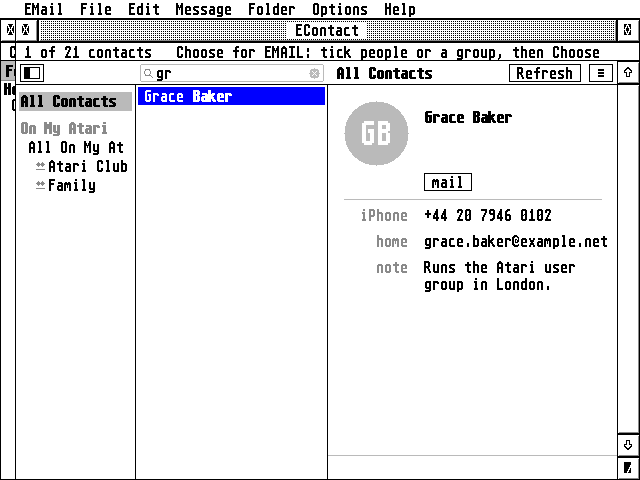
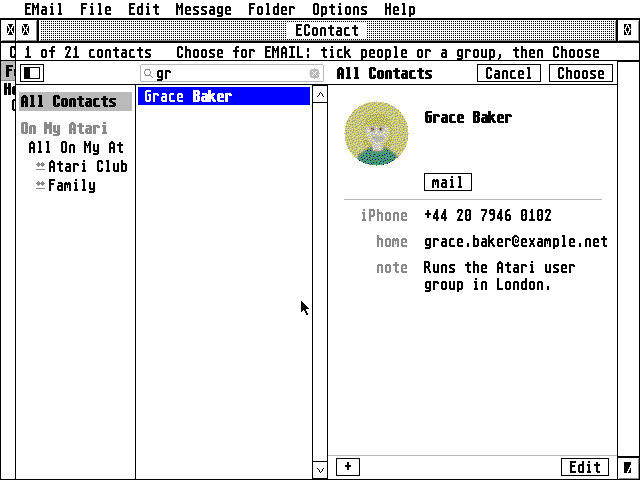
Docs true to 1.60 and main: the Pi's short way, sizes, pictures
The family's docs review (the hub, 22 Oct):
- README and guide: the Pi's short way (AERA-Gateway 1.8: update-pi.sh
  --allow, every gateway in one line) and `sudo aera-gateway status`;
  ECONTST.ACC 125 KB smaller than ECONTACT.ACC (was 105), and about
  490 KB alone (277 program, 166 buffers, 48 stack); the quiet start's
  longest step 100 ms on the ST, as measured now; drawing off the
  screen, the held scroll bar, long text fields and the crash catcher in
  "What it does"; the guide: the track held, a text field's keys
  (Shift+Left/Right), the INF's empty line after each setting.
- Pictures retaken in Hatari (docs_shots.py): email-complete and
  ecal-invitees (EMail 1.51, ECal 2.21; the list's own scroll bar, the
  toolbar's Cancel and Choose), memory-full (ST-1, 1,000 contacts:
  --memory, new). desk-menu.png and ecal-invite.png, shown nowhere and
  of the old window, go; ECal 2.21 takes the one found at once, so its
  shot is the event with Maya Carter in People. The other shots differ
  from new ones only in the info line's time: kept, and WINDOW.IMG
  with them.
- docs_shots.py imports ECal's ui_tour with ECal's own rig.py.

Claude-Session: https://claude.ai/code/session_01JWXrCb5ck666x9DhJcKbCz

diff --git a/tests/hatari/docs_shots.py b/tests/hatari/docs_shots.py
@@ -11,6 +11,9 @@ On the family's machines (common/tools/machines.py): the Falcon at 640x480
 in 16 colours (--falcon names another, Falcon:256 say) and the ST in mono
 (--st).
 
+--memory takes memory-full: ECONTST.ACC on a 1 MB ST (ST-1 in mono)
+with 1,000 contacts, more than fit, and the alert that says so.
+
 --email and --ecal take the shots of EContact working with EMail (1.35 or
 later: it asks with PEOPLE) and ECal (2.5 or later): their latest
 releases, what Erez runs (the guidelines, 1.2), or the one named, fetched
@@ -79,6 +82,48 @@ def program(work, machine, shots):
     return os.path.join(work, "shots")
 
 
+def memory_full(work, machine):
+    """the accessory on a 1 MB ST with more contacts than fit"""
+    hd = os.path.join(work, "hd")
+    shutil.rmtree(work, ignore_errors=True)
+    folder = os.path.join(hd, "ECONTACT")
+    os.makedirs(folder)
+    first = "Anna Ben Clara David Emma Frank Grace Henry Iris Jack Kate Liam Mia Noah Olivia Paul".split()
+    last = "Anderson Baker Carter Davis Evans Foster Green Hughes Irwin Jones Klein Lewis Moore".split()
+    vcf = os.path.join(work, "many.vcf")
+    with open(vcf, "w", newline="") as f:
+        for i in range(1000):
+            g, fam = first[i % len(first)], last[(i // len(first)) % len(last)]
+            f.write("BEGIN:VCARD\r\nVERSION:3.0\r\nN:%s;%s;;;\r\nFN:%s %s\r\nORG:Globex;\r\n"
+                    "EMAIL;type=INTERNET;type=HOME:%s.%s%d@example.com\r\n"
+                    "TEL;type=CELL:+1 555 01%02d\r\nUID:DOCS-%04d\r\nEND:VCARD\r\n"
+                    % (fam, g, g, fam, g.lower(), fam.lower(), i, i % 100, i))
+    subprocess.run([CLI, folder, "local", "Contacts"], check=True, stdout=subprocess.DEVNULL)
+    subprocess.run([CLI, folder, "import", "Contacts", vcf], check=True, stdout=subprocess.DEVNULL)
+    with open(os.path.join(folder, "ECONTACT.INF"), newline="") as f:
+        t = f.read()
+    os.remove(os.path.join(folder, "ECONTACT.INF"))
+    lines = [("FOLDER=C:\\ECONTACT" if ln.startswith("FOLDER=") else "START=5" if ln.startswith("START=")
+              else ln) for ln in t.split("\r\n")]
+    with open(os.path.join(hd, "ECONTACT.INF"), "w", newline="") as f:
+        f.write("\r\n".join(lines))
+    shutil.copy(os.path.join(BIN, "ECONTST.ACC"), os.path.join(hd, "ECONTACT.ACC"))
+    r = Rig(work, machine, auto="")
+    try:
+        time.sleep(120)                 # read in the background, as far as memory goes
+        r.click(30, 8)                  # Desk
+        time.sleep(1.5)
+        r.click(60, 59)                 # EContact: the window, and the alert
+        time.sleep(12)
+        r.move(600, 30)                 # the pointer off the alert
+        time.sleep(1)
+        r.shot("memory-full")
+        r.key(K["RETURN"])
+    finally:
+        r.stop()
+    return os.path.join(work, "shots")
+
+
 def falcon_shots(r):
     time.sleep(4)                        # the first card's photo
     r.click(200, 204)                    # Maya Carter
@@ -137,10 +182,6 @@ def with_email(work, machine, spec):
     r = Rig(work, machine, auto="C:\\EMAIL.PRG")
     try:
         time.sleep(18)
-        r.click(30, 8)
-        time.sleep(1)
-        r.shot("desk-menu")
-        r.key(K["ESC"])
         r.click(300, 300)
         time.sleep(0.5)
         r.ctrl("n")
@@ -163,8 +204,15 @@ def with_ecal(work, machine, spec, ecal_src):
     as_accessory(hd)
     getrelease.fetch(spec, os.path.join(work, "shots"), ["ECAL.PRG"])
     shutil.move(os.path.join(work, "shots", "ECAL.PRG"), os.path.join(hd, "ECAL.PRG"))
+    # ECal's ui_tour: its seed() writes an On My Atari calendar. It takes
+    # ECal's own rig.py, not this one
+    ours = sys.modules.pop("rig")
     sys.path.insert(0, os.path.join(ecal_src, "tests", "hatari"))
-    import ui_tour  # ECal's: its seed() writes an On My Atari calendar
+    try:
+        import ui_tour
+    finally:
+        sys.path.pop(0)
+        sys.modules["rig"] = ours
     ui_tour.seed(hd, english=True)
     r = Rig(work, machine, auto="C:\\ECAL.PRG")
     try:
@@ -175,11 +223,8 @@ def with_ecal(work, machine, spec, ecal_src):
         r.click(505, 125)               # People: Add...
         time.sleep(2)
         r.type("ma", pace=0.1)          # Name or address
-        r.key(K["RETURN"])              # OK: ECal asks EContact (PEOPLE pick:)
-        time.sleep(8)                   # EContact's window, choosing, and its photo
-        r.shot("ecal-invite")
-        r.key(K["RETURN"])              # Choose: the one chosen
-        time.sleep(4)
+        r.key(K["RETURN"])              # OK: ECal asks EContact (PEOPLE pick:),
+        time.sleep(8)                   # and Maya Carter is in People (ECal 2.21)
         r.shot("ecal-invitees")
         r.key(K["ESC"])
     finally:
@@ -192,6 +237,7 @@ def main():
     ap.add_argument("work")
     ap.add_argument("--falcon", default="Falcon:16")
     ap.add_argument("--st", default="ST:mono")
+    ap.add_argument("--memory", action="store_true", help="memory-full, on ST-1")
     ap.add_argument("--email", nargs="?", const="EMail")
     ap.add_argument("--ecal", nargs="?", const="ECal")
     ap.add_argument("--ecal-src", default=os.path.join(ROOT, "..", "ecal"))
@@ -199,6 +245,8 @@ def main():
     a = ap.parse_args()
     dirs = [program(os.path.join(a.work, "falcon"), a.falcon, falcon_shots),
             program(os.path.join(a.work, "st"), a.st, st_shots)]
+    if a.memory:
+        dirs.append(memory_full(os.path.join(a.work, "memory"), "ST-1:mono"))
     if a.email:
         dirs.append(with_email(os.path.join(a.work, "email"), a.falcon, a.email))
     if a.ecal:

diff --git a/README.md b/README.md
@@ -35,7 +35,7 @@ and all of them together in `ECONTACT-x.y.zip`.
 | File | What it is |
 |---|---|
 | `ECONTACT.ACC` | Falcon and TT: the accessory with Falcon mode (TLS, DSP); also works through the Pi |
-| `ECONTST.ACC` | ST and STE: the same accessory without TLS (about 105 KB smaller), through the Pi |
+| `ECONTST.ACC` | ST and STE: the same accessory without TLS (about 125 KB smaller), through the Pi |
 | `ECONTACT.PRG` | the same as `ECONTACT.ACC`, to start from the desktop, with a menu bar |
 | `CACERT.PEM`, `ROOTS.DAT` | the root certificates for Falcon mode |
 | `ECONTACT.HYP` | the user guide for ST-Guide or EHypView: in EContact's folder, the Help key opens it |
@@ -70,11 +70,19 @@ file with EContact's added (it says which number), for the root of the boot driv
    sudo gateway/aera-gateway install dav --allow ATARI_IP
    ```
 
+   Or the short way (AERA-Gateway 1.8 or later), every gateway in one line (EMail's too with
+   `--mail IMAP SMTP`):
+
+   ```
+   sudo apt install -y git && git clone https://github.com/whomper/AERA-Gateway ~/AERA-Gateway &&
+     ~/AERA-Gateway/update-pi.sh --allow ATARI_IP
+   ```
+
    `ATARI_IP` is your Atari's address (`192.168.1.x`): the gateway answers it alone. ECal uses the
    same gateway: if it already works through your Pi, there is nothing to do.
 
    - To update: `cd ~/AERA-Gateway && ./update-pi.sh` (its settings are kept).
-   - To check: `gateway/aera-gateway status`.
+   - To check: `sudo aera-gateway status` (`gateway/aera-gateway status` in the folder).
    - In EContact: **Settings > Connection**, **Pi gateway:** the Pi's address (`PI_IP`),
      **Port:** 8180.
 4. Reboot, choose **EContact** in the Desk menu, and add your iCloud account with an
@@ -159,6 +167,11 @@ under a search field, the chosen person's card on the right.
 - **My Card**, as on the Mac; the window opens on it.
 - **Fonts** (the system font or any fixed-width GDOS font, in the family's Font dialog), the window and everything else are
   remembered in `ECONTACT.INF`, which explains itself.
+- **Smooth on an ST**: the window is drawn off the screen and shown at once; the list scrolls by
+  moving what is shown, and the scroll bar's arrows and track go on while held. Text fields hold
+  more than they show (a long server address, a name) and scroll with the cursor.
+- **A crash** in the program is caught: it says so, writes `CRASH.LOG` and quits, leaving the
+  Atari running (the guide, When something goes wrong).
 
 ![Editing Maya Carter's card: the Edit Contact dialog with its Name, Phone, Email, Address and More sections](docs/edit.png) ![EContact on an ST in high resolution: the same window in black and white, Johnny Appleseed's photo dithered](docs/st-mono.png)
 
@@ -270,8 +283,8 @@ name, a company, one or two emails, two phones, some with an address, birthday o
   at most 50 ms on a Falcon and 100 ms on an ST between the other programs' turns, so the first
   opening is at once. Measured in Hatari with 600 contacts and an AES_PROFILE build
   (`tests/hatari/quiet_start.py`): the whole read takes 4.4 s of an 8 MHz ST's time (1.1 s on a
-  16 MHz Falcon), spread over 8 s; the longest stretch between event calls is 95 ms on the ST and
-  under 50 ms on the Falcon. When the copy on disk is the one the index was made from, nothing is
+  16 MHz Falcon), spread over 8 s; the longest stretch between event calls is 100 ms on the ST
+  and under 50 ms on the Falcon. When the copy on disk is the one the index was made from, nothing is
   hashed (the cards are found by where they are).
 - **Start-up reads parsed contacts** from `CACHE\BOOKnnnn.IDX`: a card is parsed (about 85 ms on an
   8 MHz ST) only the first time, and after it changes; the rest take about 18 ms each. A new version
@@ -281,7 +294,7 @@ name, a company, one or two emails, two phones, some with an address, birthday o
 - **Syncing a big address book** reads the server's list of cards as it arrives when memory is small,
   keeping only what needs fetching.
 - STinG takes 100 KB or more of its own: with it, a 1 MB ST holds about 400 contacts. A 512 KB ST
-  can't run EContact (`ECONTST.ACC` alone is about 480 KB: 265 KB of program, 180 KB of buffers and
+  can't run EContact (`ECONTST.ACC` alone is about 490 KB: 277 KB of program, 166 KB of buffers and
   its 48 KB stack).
 - **With EMail on a 1 MB ST, use `ECONTACT.PRG`, not the accessory.** The accessory and its memory
   take about 650 KB of the 1 MB for as long as the Atari runs, which leaves too little for EMail to

diff --git a/docs/GUIDE.md b/docs/GUIDE.md
@@ -162,13 +162,22 @@ cd AERA-Gateway
 sudo gateway/aera-gateway install dav --allow ATARI_IP
 ```
 
+Or the short way (AERA-Gateway 1.8 or later), every gateway in one
+line (EMail's too with `--mail IMAP SMTP`):
+
+```
+sudo apt install -y git && git clone https://github.com/whomper/AERA-Gateway ~/AERA-Gateway &&
+  ~/AERA-Gateway/update-pi.sh --allow ATARI_IP
+```
+
 ATARI_IP is your Atari's address (192.168.1.x): the gateway answers it
 alone. One Pi serves ECal and EContact alike: if ECal already works
 through it, there is nothing to do on the Pi.
 
 - To update: `cd ~/AERA-Gateway && ./update-pi.sh` (its settings are
   kept).
-- To check: `gateway/aera-gateway status`.
+- To check: `sudo aera-gateway status` (`gateway/aera-gateway status`
+  in the folder).
 - In EContact: **Settings > Connection**, **Pi gateway:** the Pi's
   address (PI_IP), **Port:** 8180.
 
@@ -192,7 +201,8 @@ it (a server's) or delete it (one on this Atari).
   headings. Click one to see their card; the arrow keys move up and down,
   Clr/Home goes to the first (Shift: the last). The scroll bar at the
   right of the list moves it: its arrows a row (held, on and on), a click
-  above or below the slider a page, and the slider dragged.
+  above or below the slider a page (held, page after page until the
+  slider reaches the pointer), and the slider dragged.
 - **Search**: click in the field at the top of the list, or just type:
   the field takes the focus (a black frame and the cursor) until you
   click elsewhere. The list keeps those whose name, company, email,
@@ -278,7 +288,10 @@ card as it was. If the card was changed on another device in the
 meantime, the server refuses the save: refresh (^R) and edit again.
 
 Text fields take Hebrew: F10 switches to the Israeli keyboard, and a
-Hebrew name or note is shown right to left.
+Hebrew name or note is shown right to left. A field holds more than it
+shows (a long address, a server's address): it scrolls with the cursor.
+← and → move the cursor, Shift+← and Shift+→ (or Clr/Home and
+Shift+Clr/Home) go to the start and the end.
 
 ## Groups
 
@@ -407,7 +420,7 @@ See [INTEGRATION.md](INTEGRATION.md) for how the programs talk.
 ## ECONTACT.INF
 
 The settings file explains itself, like ECal's and EMail's: a note
-before each setting, `1` for on and `0` for off. It can be edited with
+before each setting and an empty line after it, `1` for on and `0` for off. It can be edited with
 any text editor while EContact isn't running (keys in any case, a note
 after a value with ` ;`). A password typed in there in plain text is
 encrypted with ECONTACT.KEY the next time EContact starts. EContact
@@ -436,6 +449,7 @@ next time EContact saves its settings.
 | ^C | copy the contact chosen: "Name <email>" |
 | ^V, ^X | paste into the search, cut it |
 | ^C ^X ^V | in a dialog: copy, cut, paste a field |
+| Shift+← → | in a text field: its start, its end |
 | ^R, Shift+^R | refresh, everything again |
 | Shift+^S | the groups on the left |
 | ^, | Settings |
